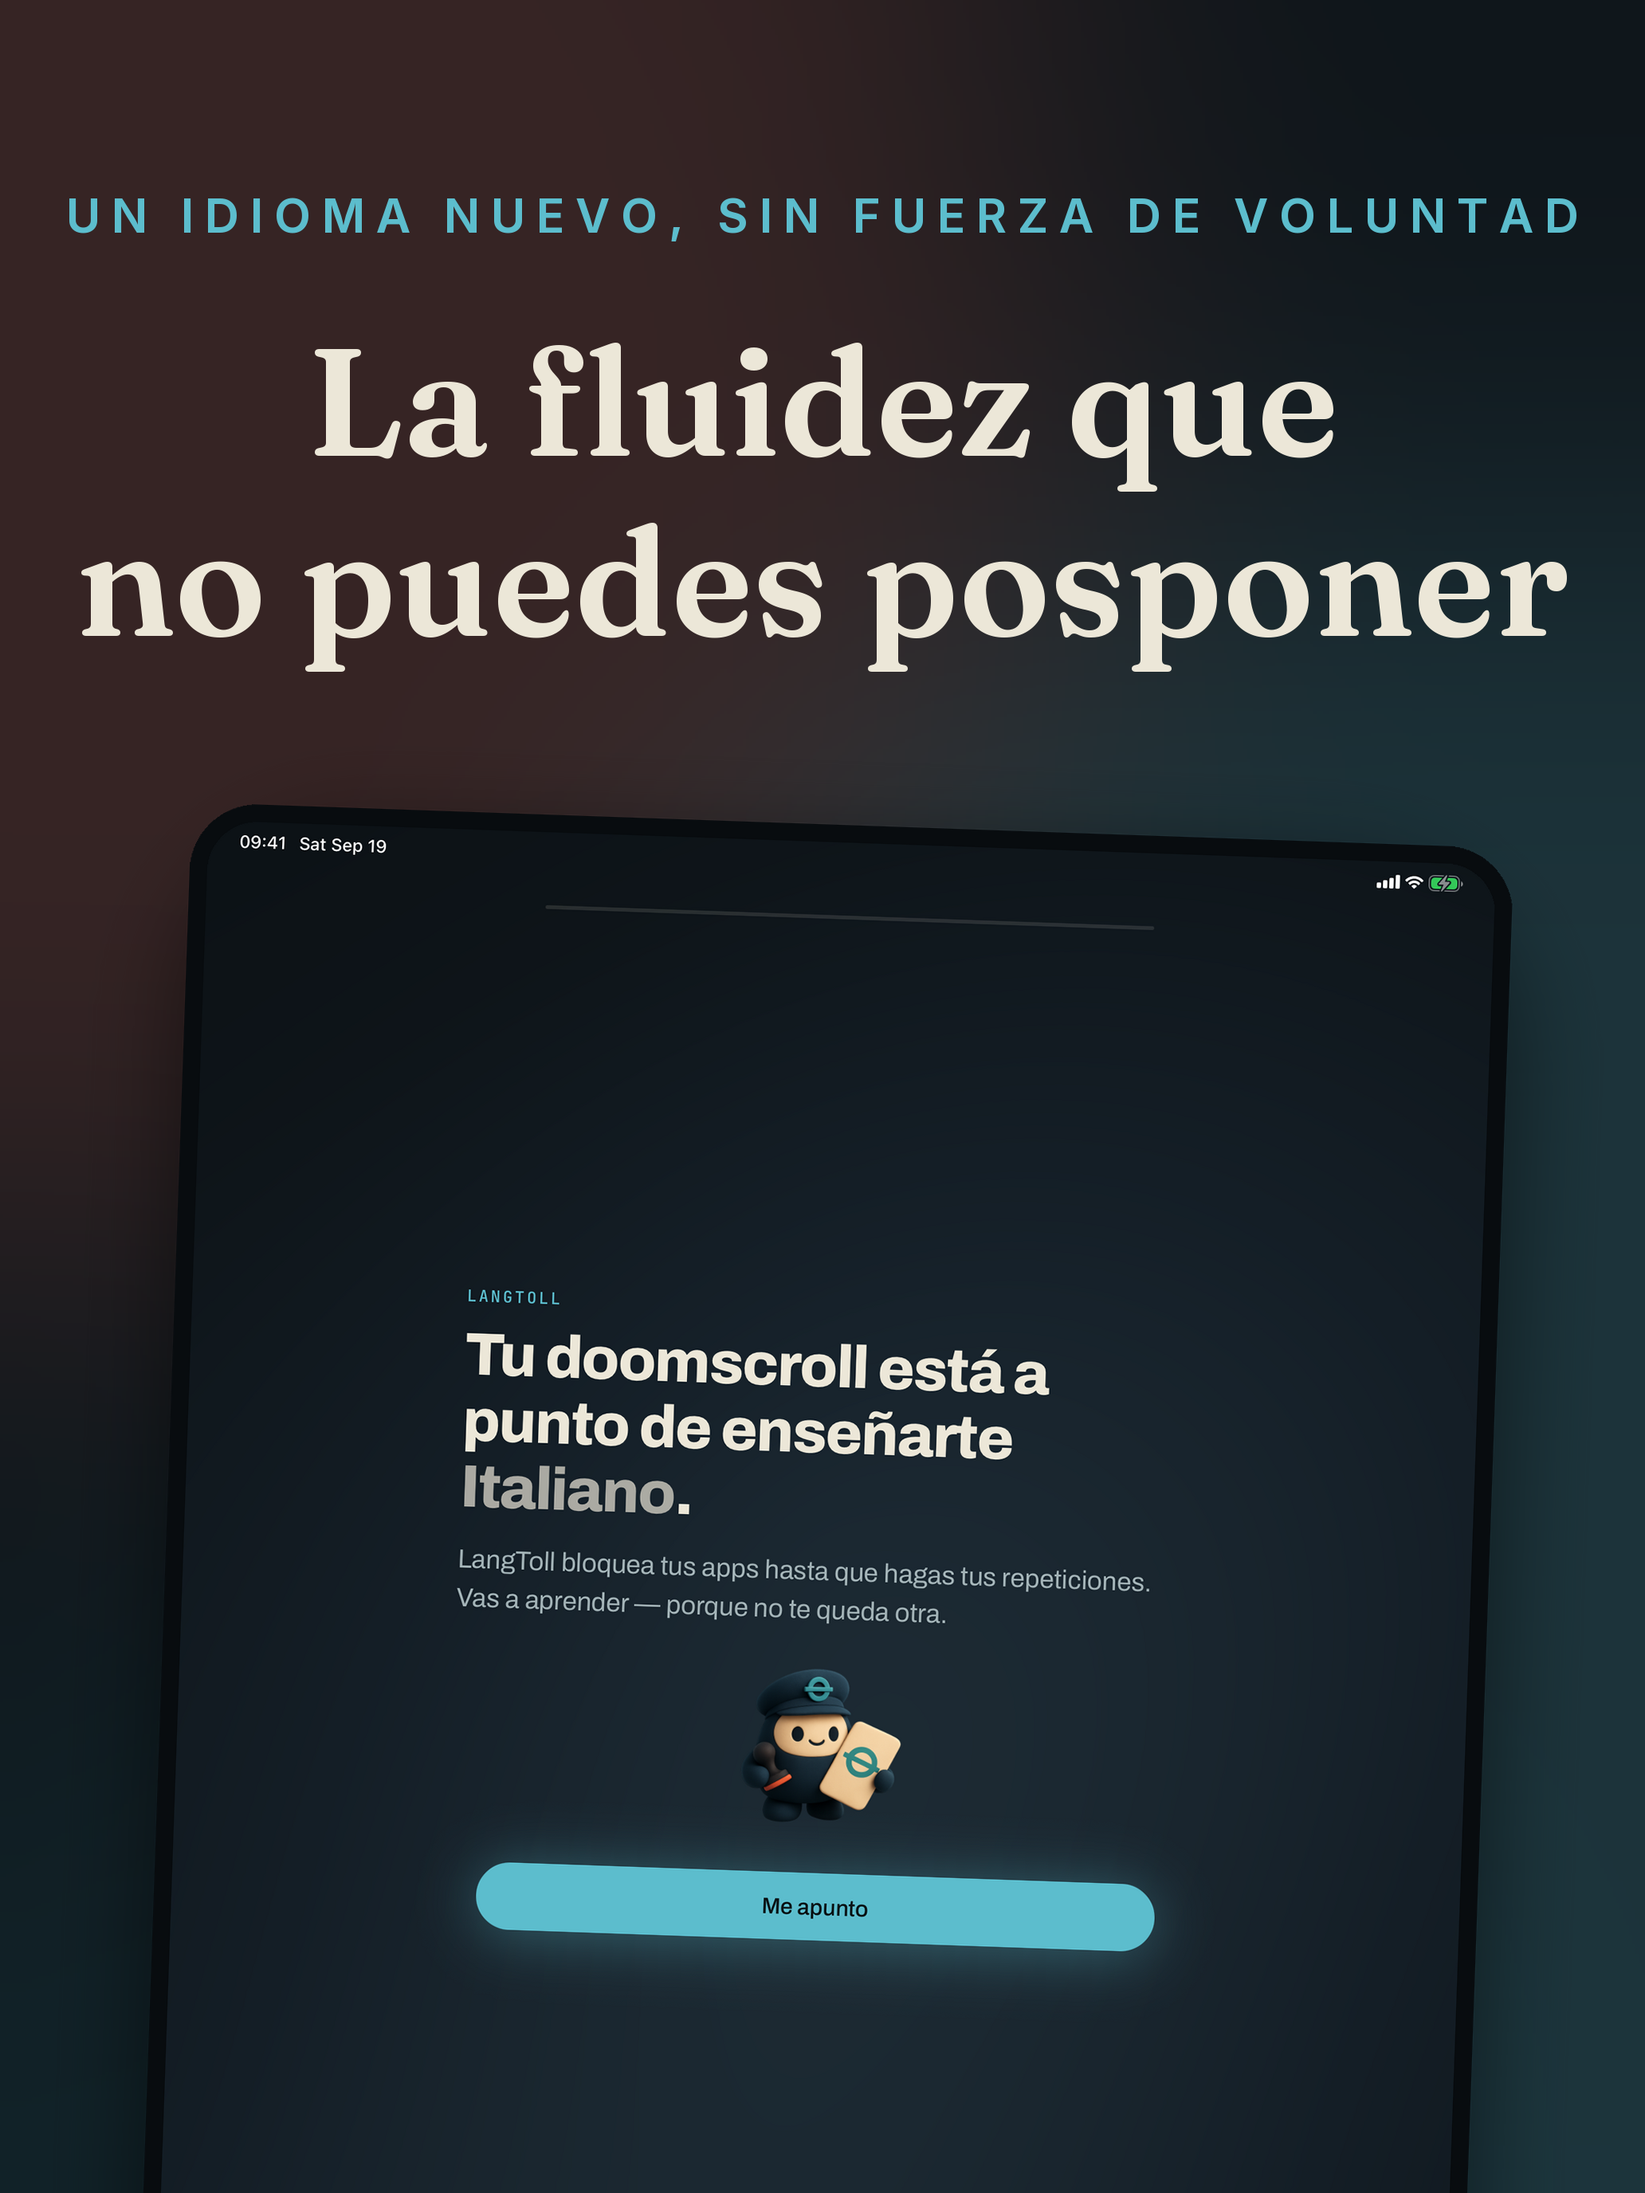
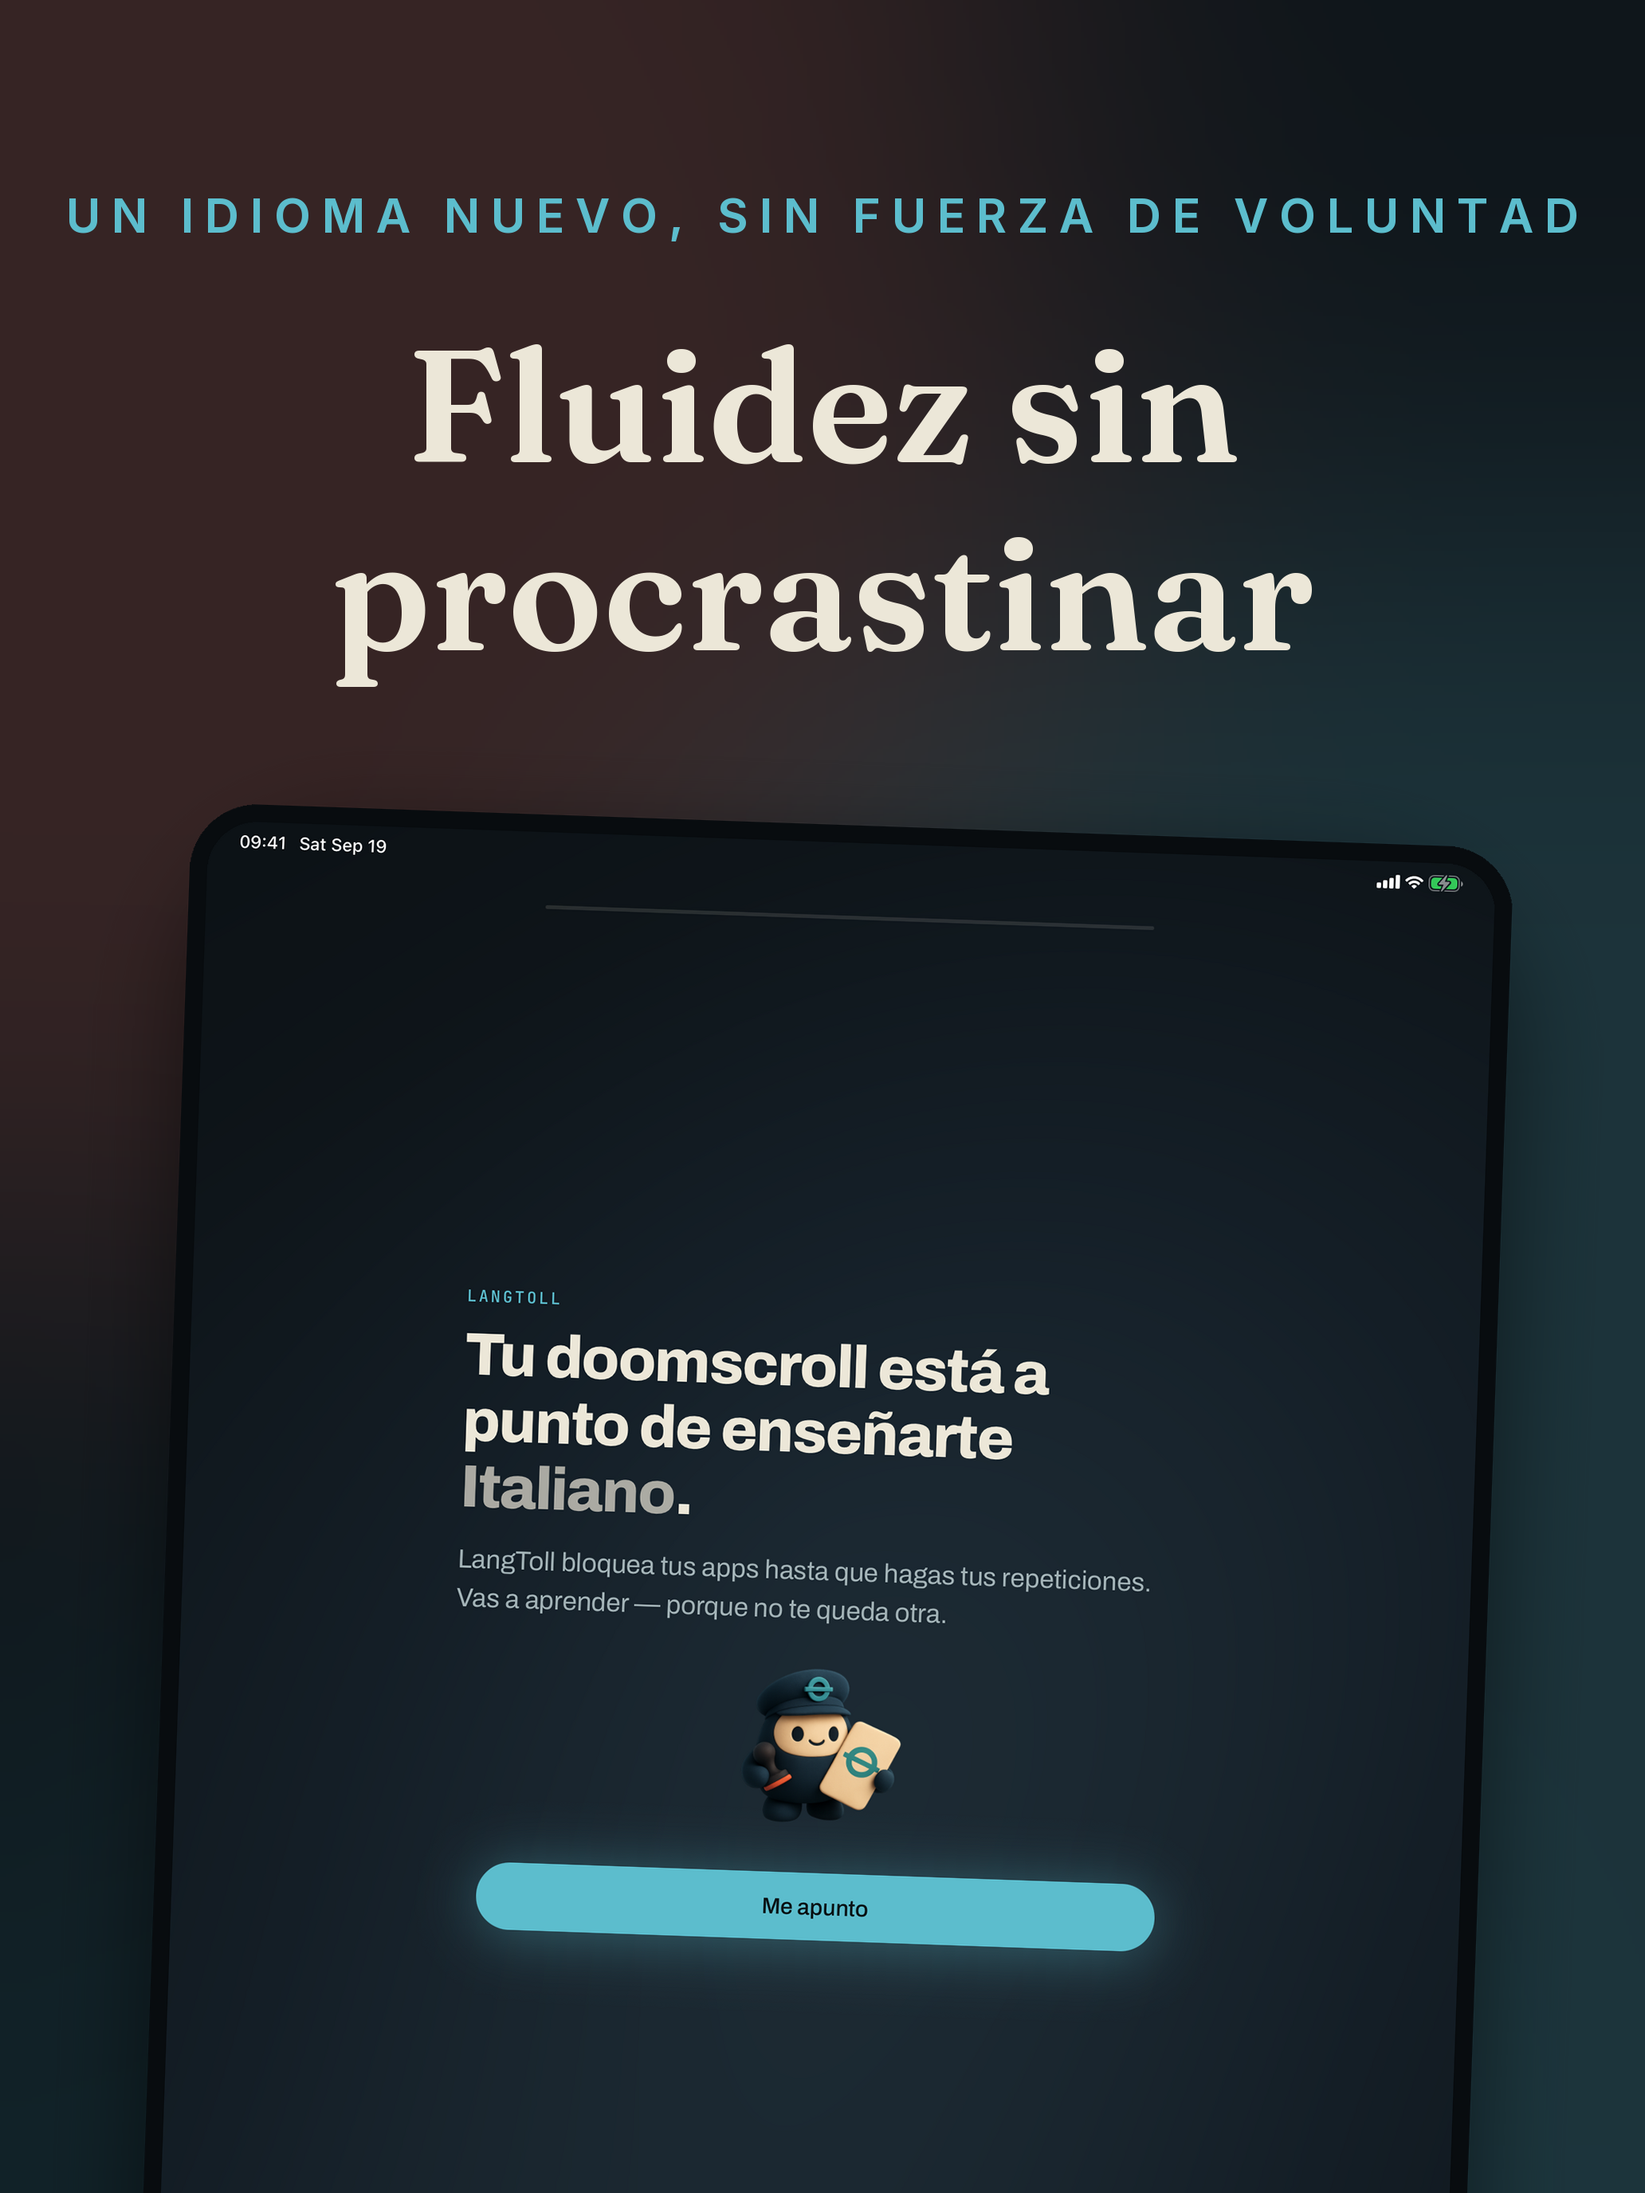
Store shots: idiomatic captions, not literal translations
"Pays rent" is an English idiom and meant nothing in any of the five
languages; the hero now says it pays off / is worth it (de keeps a pun:
zahlt sich aus). es/it/pt 06 rewritten ("fluenza" isn't natural Italian).

Claude-Session: https://claude.ai/code/session_01PwS6CHzCTzaJvz9zueakFw

Changed region(s): [[0.186, 0.1562, 0.9612, 0.3125], [0.031, 0.25, 0.155, 0.3125]]

diff --git a/langtoll-mobile/marketing/appstore/store_shots.py b/langtoll-mobile/marketing/appstore/store_shots.py
@@ -423,7 +423,7 @@ SHOTS_IPAD = [
 CAPTIONS = {
     "de": {
         "01_hero": ("deine apps, hinter einer sprach-maut",
-                    "Dein Doomscroll\nzahlt endlich Miete"),
+                    "Dein Doomscroll\nzahlt sich endlich aus"),
         "02_watch": ("wort · übersetzung · immer im blick",
                      "Er behält die Uhr im Blick.\nDu die neuen Wörter.",
                      "dein nächstes wort · auf dem sperrbildschirm"),
@@ -440,7 +440,7 @@ CAPTIONS = {
     },
     "es": {
         "01_hero": ("tus apps, tras un peaje de idiomas",
-                    "Tu doomscroll\npor fin paga alquiler"),
+                    "Tu doomscroll\npor fin vale la pena"),
         "02_watch": ("palabra · traducción · siempre a la vista",
                      "Él vigila el reloj.\nTú absorbes las palabras.",
                      "tu próxima palabra · en la pantalla bloqueada"),
@@ -451,13 +451,13 @@ CAPTIONS = {
         "05_wallet": ("cada desbloqueo te deja palabras",
                       "Tus minutos perdidos,\nahora vocabulario nuevo"),
         "06_hook": ("un idioma nuevo, sin fuerza de voluntad",
-                    "La fluidez que\nno puedes posponer"),
+                    "Fluidez sin\nprocrastinar"),
         "06_plus_alternate": ("langtoll plus",
                               "Cada app se convierte\nen una clase de idiomas"),
     },
     "fr": {
         "01_hero": ("tes apps, derrière un péage de langue",
-                    "Ton scroll compulsif\npaie enfin son loyer"),
+                    "Ton scroll compulsif\nsert enfin à quelque chose"),
         "02_watch": ("mot · traduction · toujours sous tes yeux",
                      "Il surveille l'horloge.\nToi, tu retiens les mots.",
                      "ton prochain mot · sur l'écran verrouillé"),
@@ -474,7 +474,7 @@ CAPTIONS = {
     },
     "it": {
         "01_hero": ("le tue app, dietro un pedaggio di lingua",
-                    "Il tuo scroll infinito\nfinalmente paga l'affitto"),
+                    "Il tuo scroll infinito\nfinalmente serve a qualcosa"),
         "02_watch": ("parola · traduzione · sempre sotto gli occhi",
                      "Lui guarda l'orologio.\nTu assorbi le parole.",
                      "la prossima parola · sulla schermata di blocco"),
@@ -485,13 +485,13 @@ CAPTIONS = {
         "05_wallet": ("ogni sblocco ti lascia parole",
                       "I tuoi minuti persi,\nora vocabolario nuovo"),
         "06_hook": ("una nuova lingua, senza forza di volontà",
-                    "Fluenza che non puoi\nrimandare"),
+                    "Parla fluente,\nsenza rimandare"),
         "06_plus_alternate": ("langtoll plus",
                               "Ogni app diventa\nuna lezione di lingua"),
     },
     "pt": {
         "01_hero": ("seus apps, atrás de um pedágio de idioma",
-                    "Seu doomscroll\nfinalmente paga aluguel"),
+                    "Seu doomscroll\nfinalmente vale a pena"),
         "02_watch": ("palavra · tradução · sempre na sua tela",
                      "Ele vigia o relógio.\nVocê absorve as palavras.",
                      "sua próxima palavra · na tela bloqueada"),
@@ -502,7 +502,7 @@ CAPTIONS = {
         "05_wallet": ("cada desbloqueio deixa palavras",
                       "Seus minutos perdidos,\nagora vocabulário novo"),
         "06_hook": ("um idioma novo, sem força de vontade",
-                    "Fluência que você\nnão consegue adiar"),
+                    "Fluência sem\nprocrastinar"),
         "06_plus_alternate": ("langtoll plus",
                               "Cada app vira\numa aula de idiomas"),
     },
